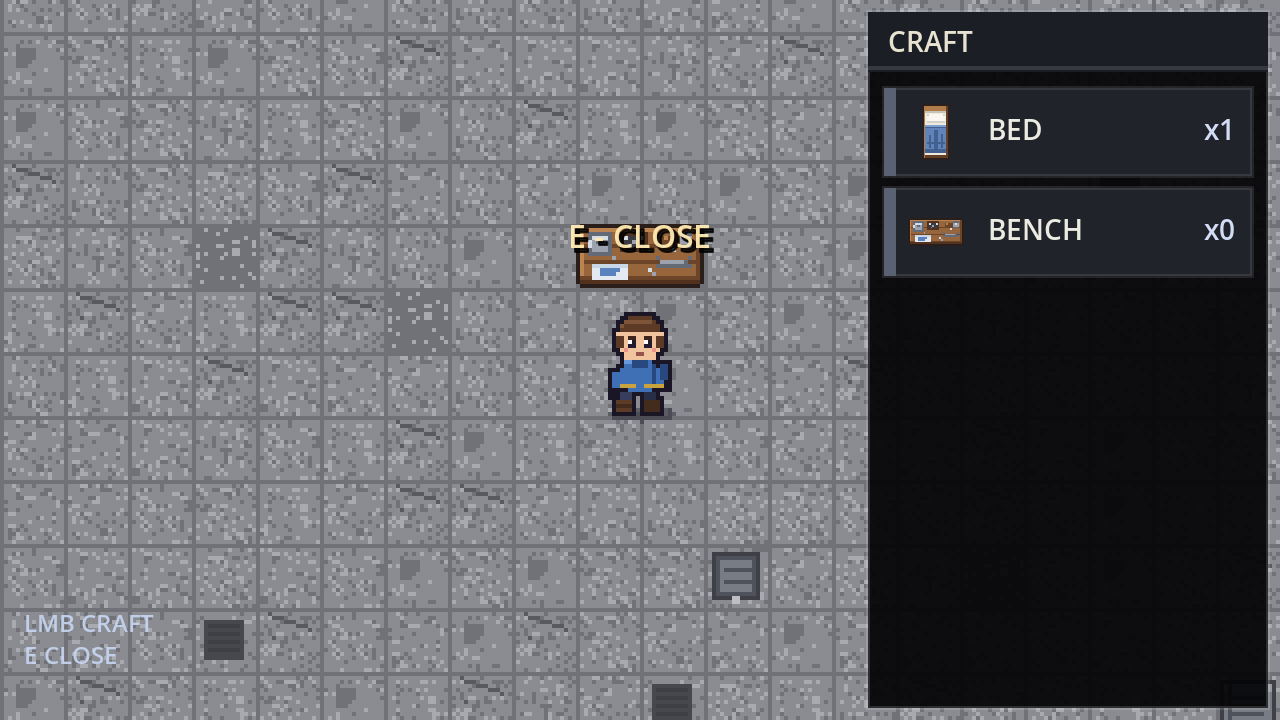
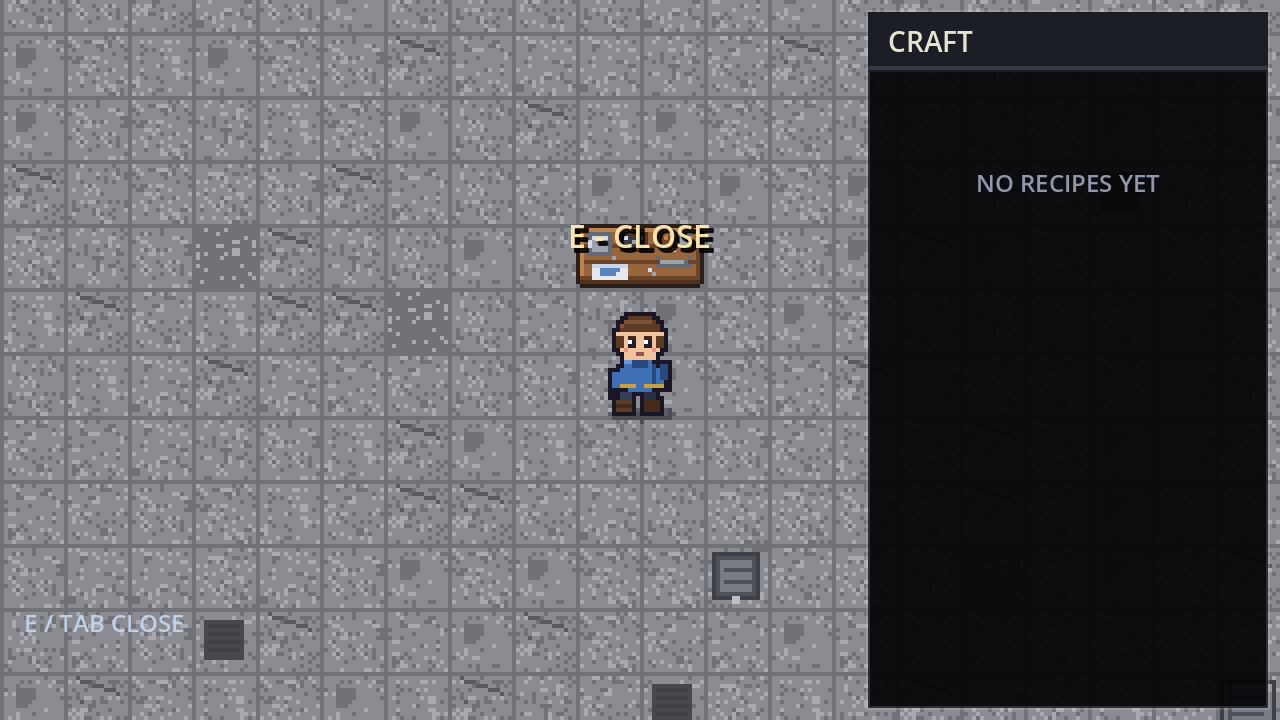
feat: CRAFT 面板不再列建筑（暂时空着，显示 NO RECIPES YET）

Changed region(s): [[0.6875, 0.1222, 1.0, 0.3972], [0.0312, 0.8556, 0.1562, 0.9167]]

diff --git a/README.md b/README.md
@@ -608,9 +608,8 @@ after 3.5s-> 0 只（确认不再刷）
   那 3×5 格不能摆家具
   （`base_builder.gd` 的 `blocked_cells`）。
 - **工作台（造东西）**：站到工作台旁边会提示 `E - CRAFT`，按 **E** 弹出和建造一样的**黑色面板**
-  （标题 `CRAFT`），**鼠标左键点某一行**就往仓库里加一件；再按 **E** 或 **Tab** 关闭
-  （面板开着的时候建造模式是锁住的；走远了也会自动关）。
-  这样仓库里只剩 1 张床时，可以靠工作台继续造。
+  （标题 `CRAFT`）；再按 **E** 或 **Tab** 关闭（面板开着时建造模式锁住，走远了也会自动关）。
+  **面板里暂时不列建筑和配方**，只显示 `NO RECIPES YET`，等做了配方表再往里填。
 - **消防栓（草地）**：`scenes/hydrant.tscn`，摆在草地 `(232, 104)`。被子弹打中（在武器的射程/扇形内）
   会喷水花 0.55 秒，随后在脚下铺开 **3×3 的水洼**（`water_puddle.png`，4 帧涟漪循环）。
   子弹判定在 `player.gd::_apply_shot_hits()` 里顺带检查 `hydrants` 组。
